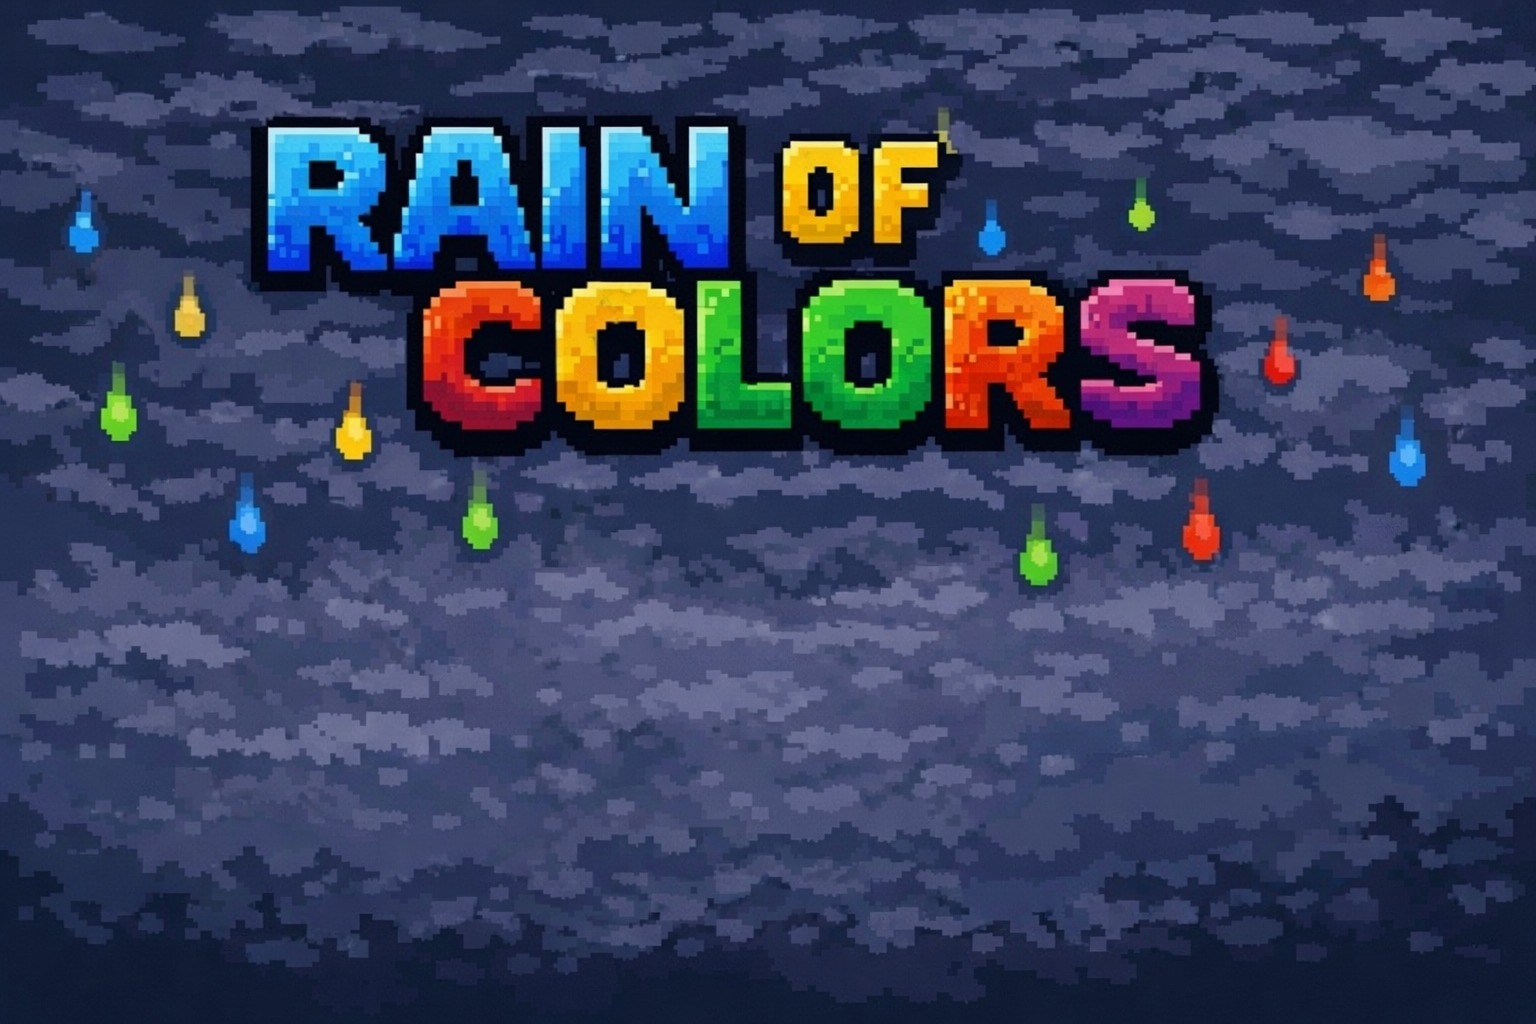
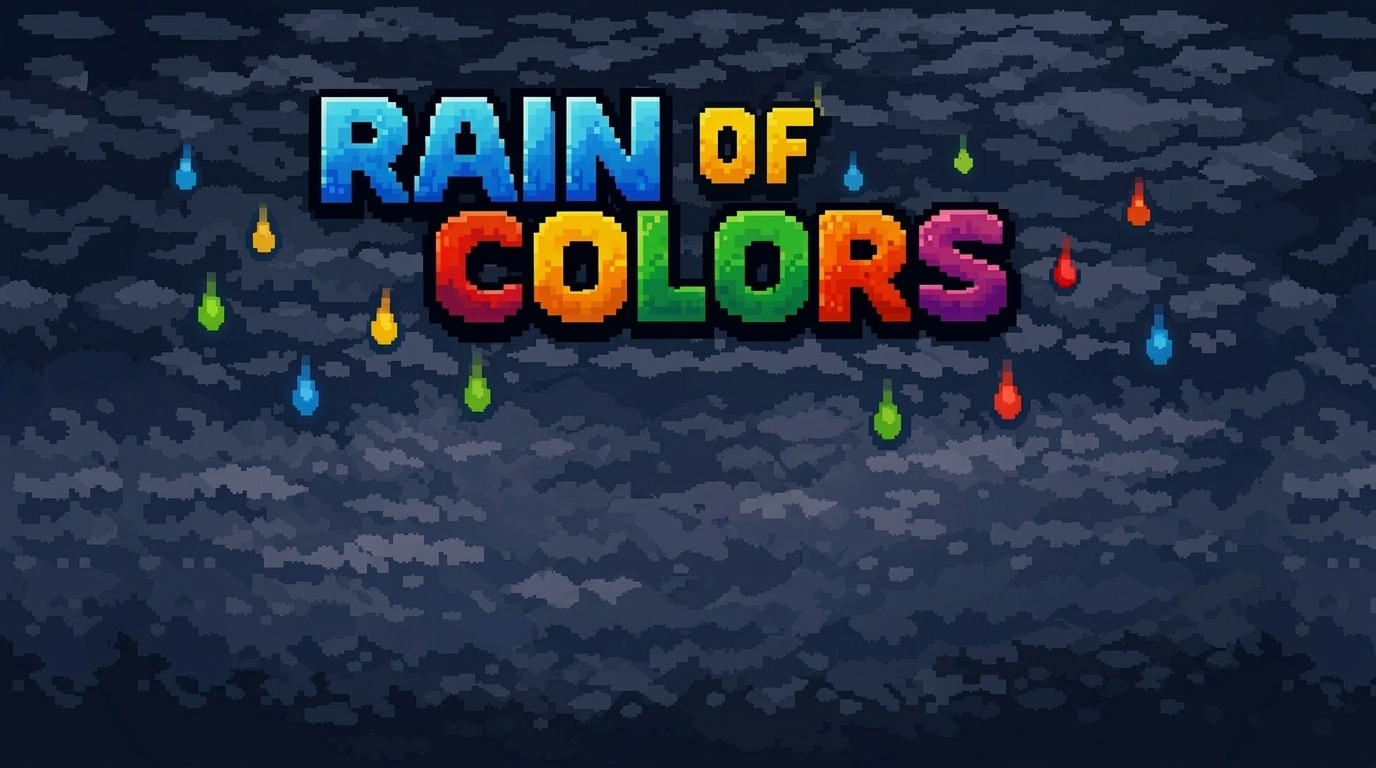
fix(MenuBackground): Menu Image was redimensioned.

diff --git a/src/game/front_end/Menu.py b/src/game/front_end/Menu.py
@@ -1,11 +1,11 @@
 import pygame
 import os
 
-from system.primitivas.Linha import line_bresenham
-from system.primitivas.Circulo import draw_circle_bresenham
-from system.primitivas.Elipse import ellipse_bresenham
-from system.preenchimento_e_textura.Preenchimento import scanline_fill_polygon
-from system.preenchimento_e_textura.Texture_Mapping import scanline_texture_polygon
+from src.system.primitivas.Linha import line_bresenham
+from src.system.primitivas.Circulo import draw_circle_bresenham
+from src.system.primitivas.Elipse import ellipse_bresenham
+from src.system.preenchimento_e_textura.Preenchimento import scanline_fill_polygon
+from src.system.preenchimento_e_textura.Texture_Mapping import scanline_texture_polygon
 
 
 class Menu: